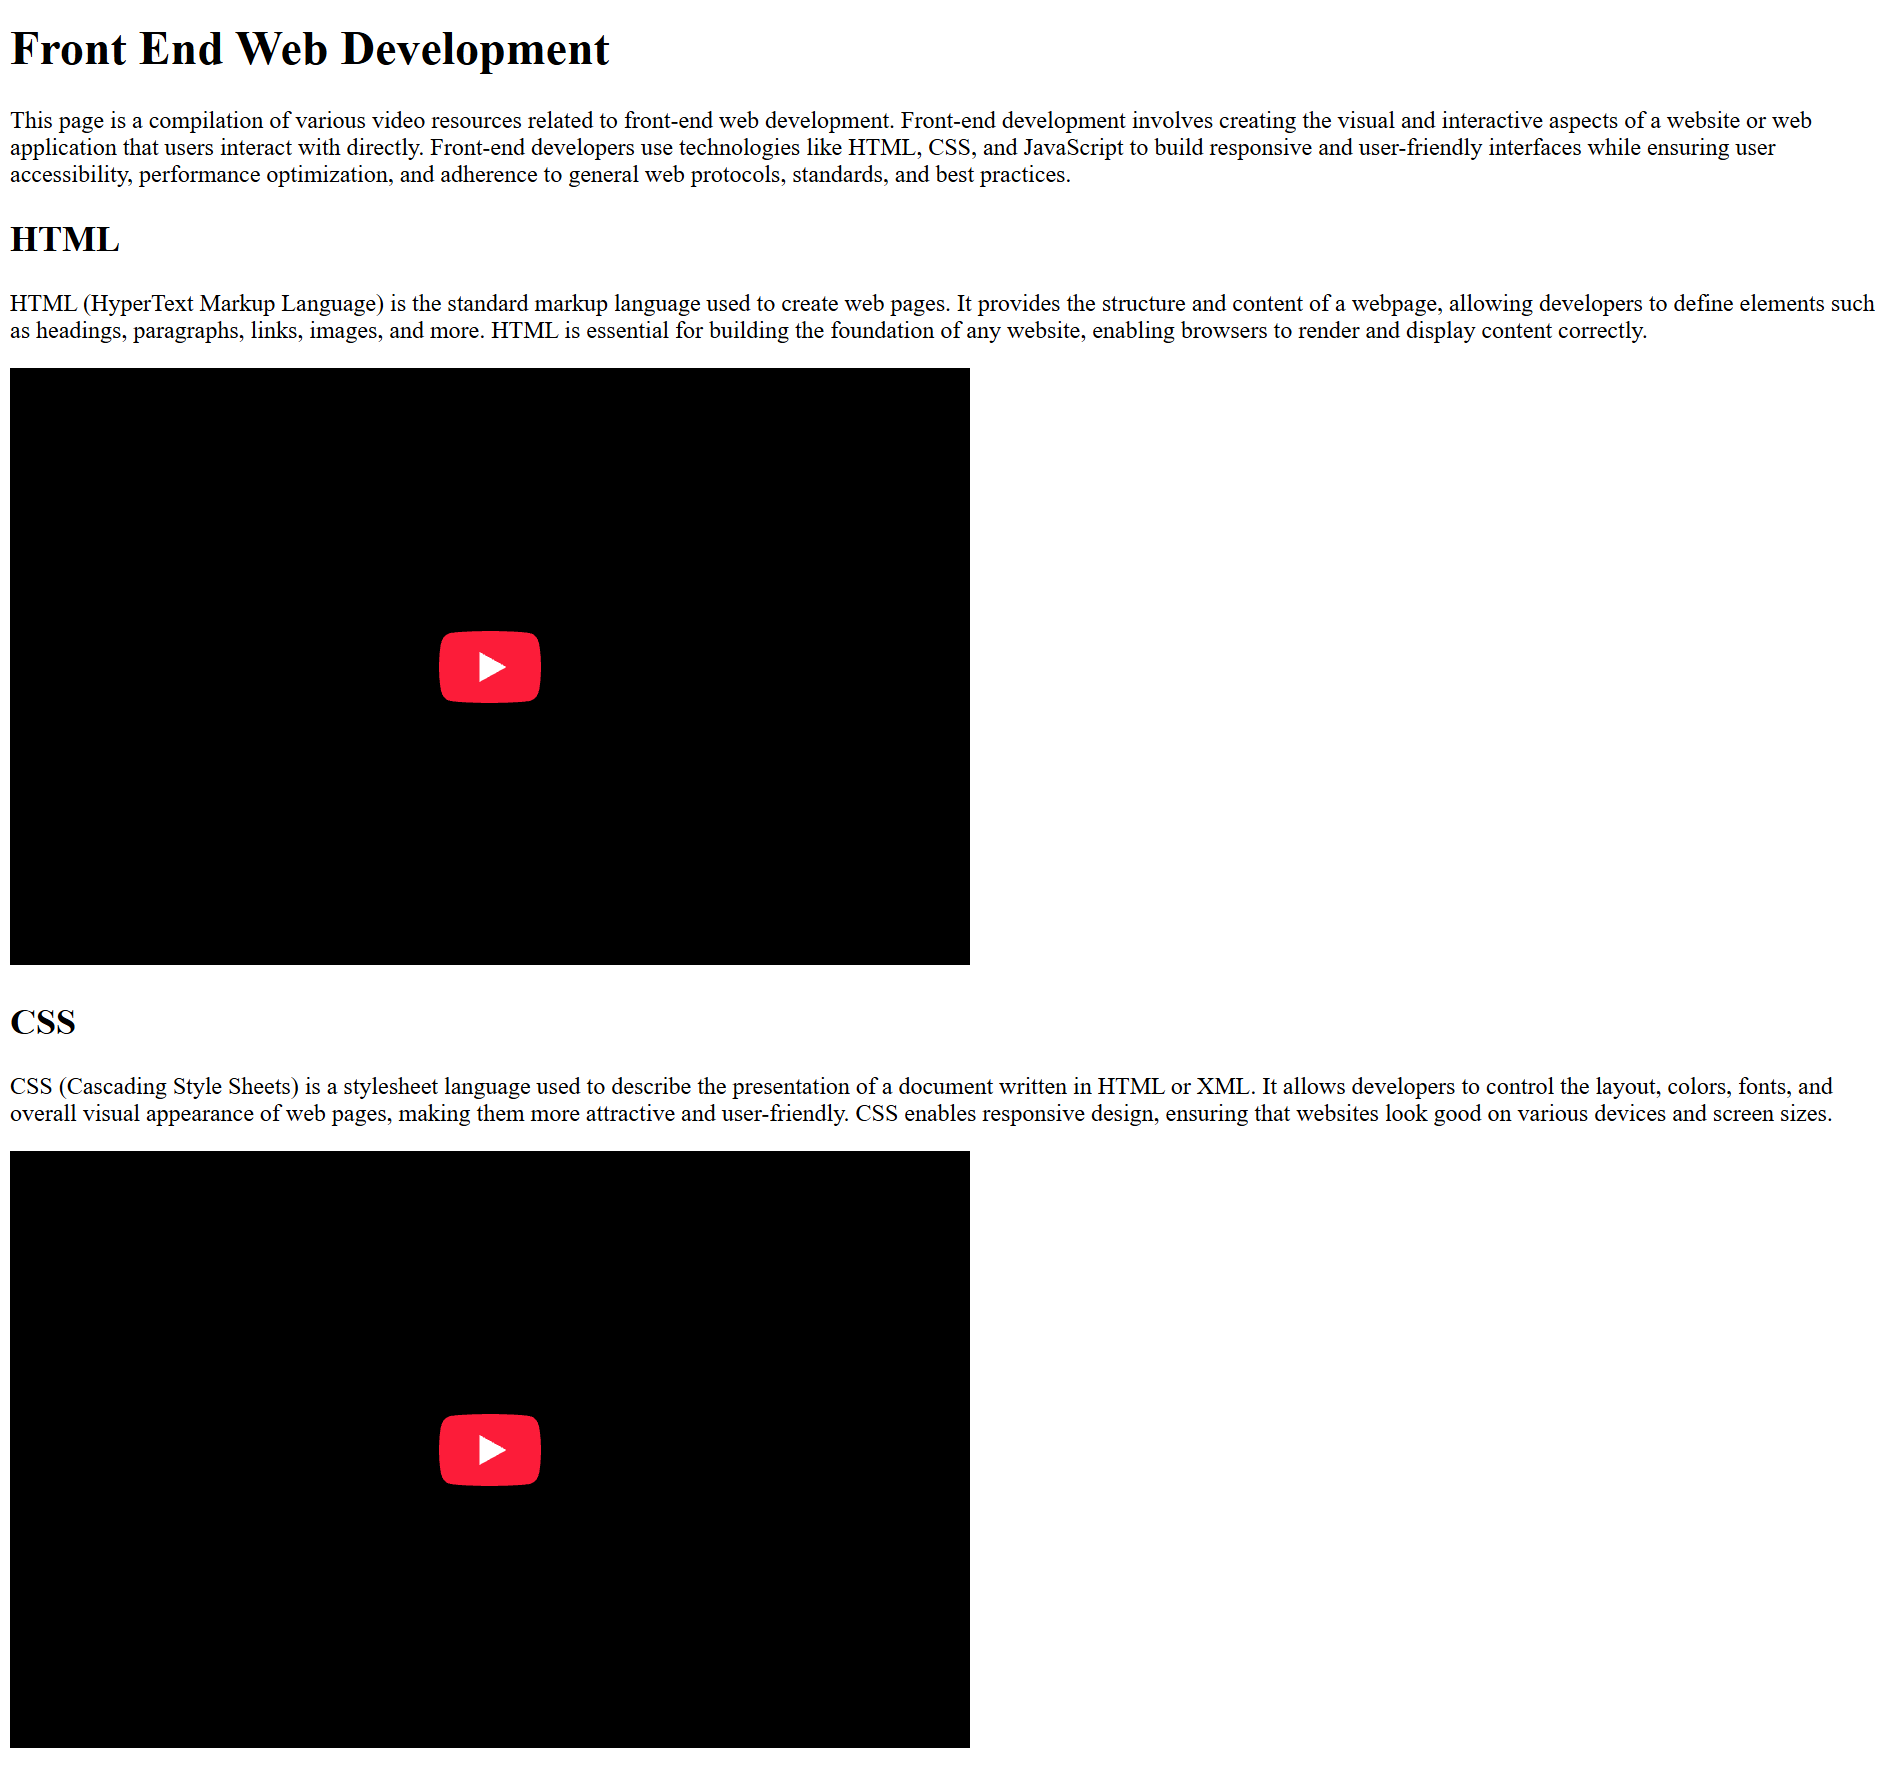
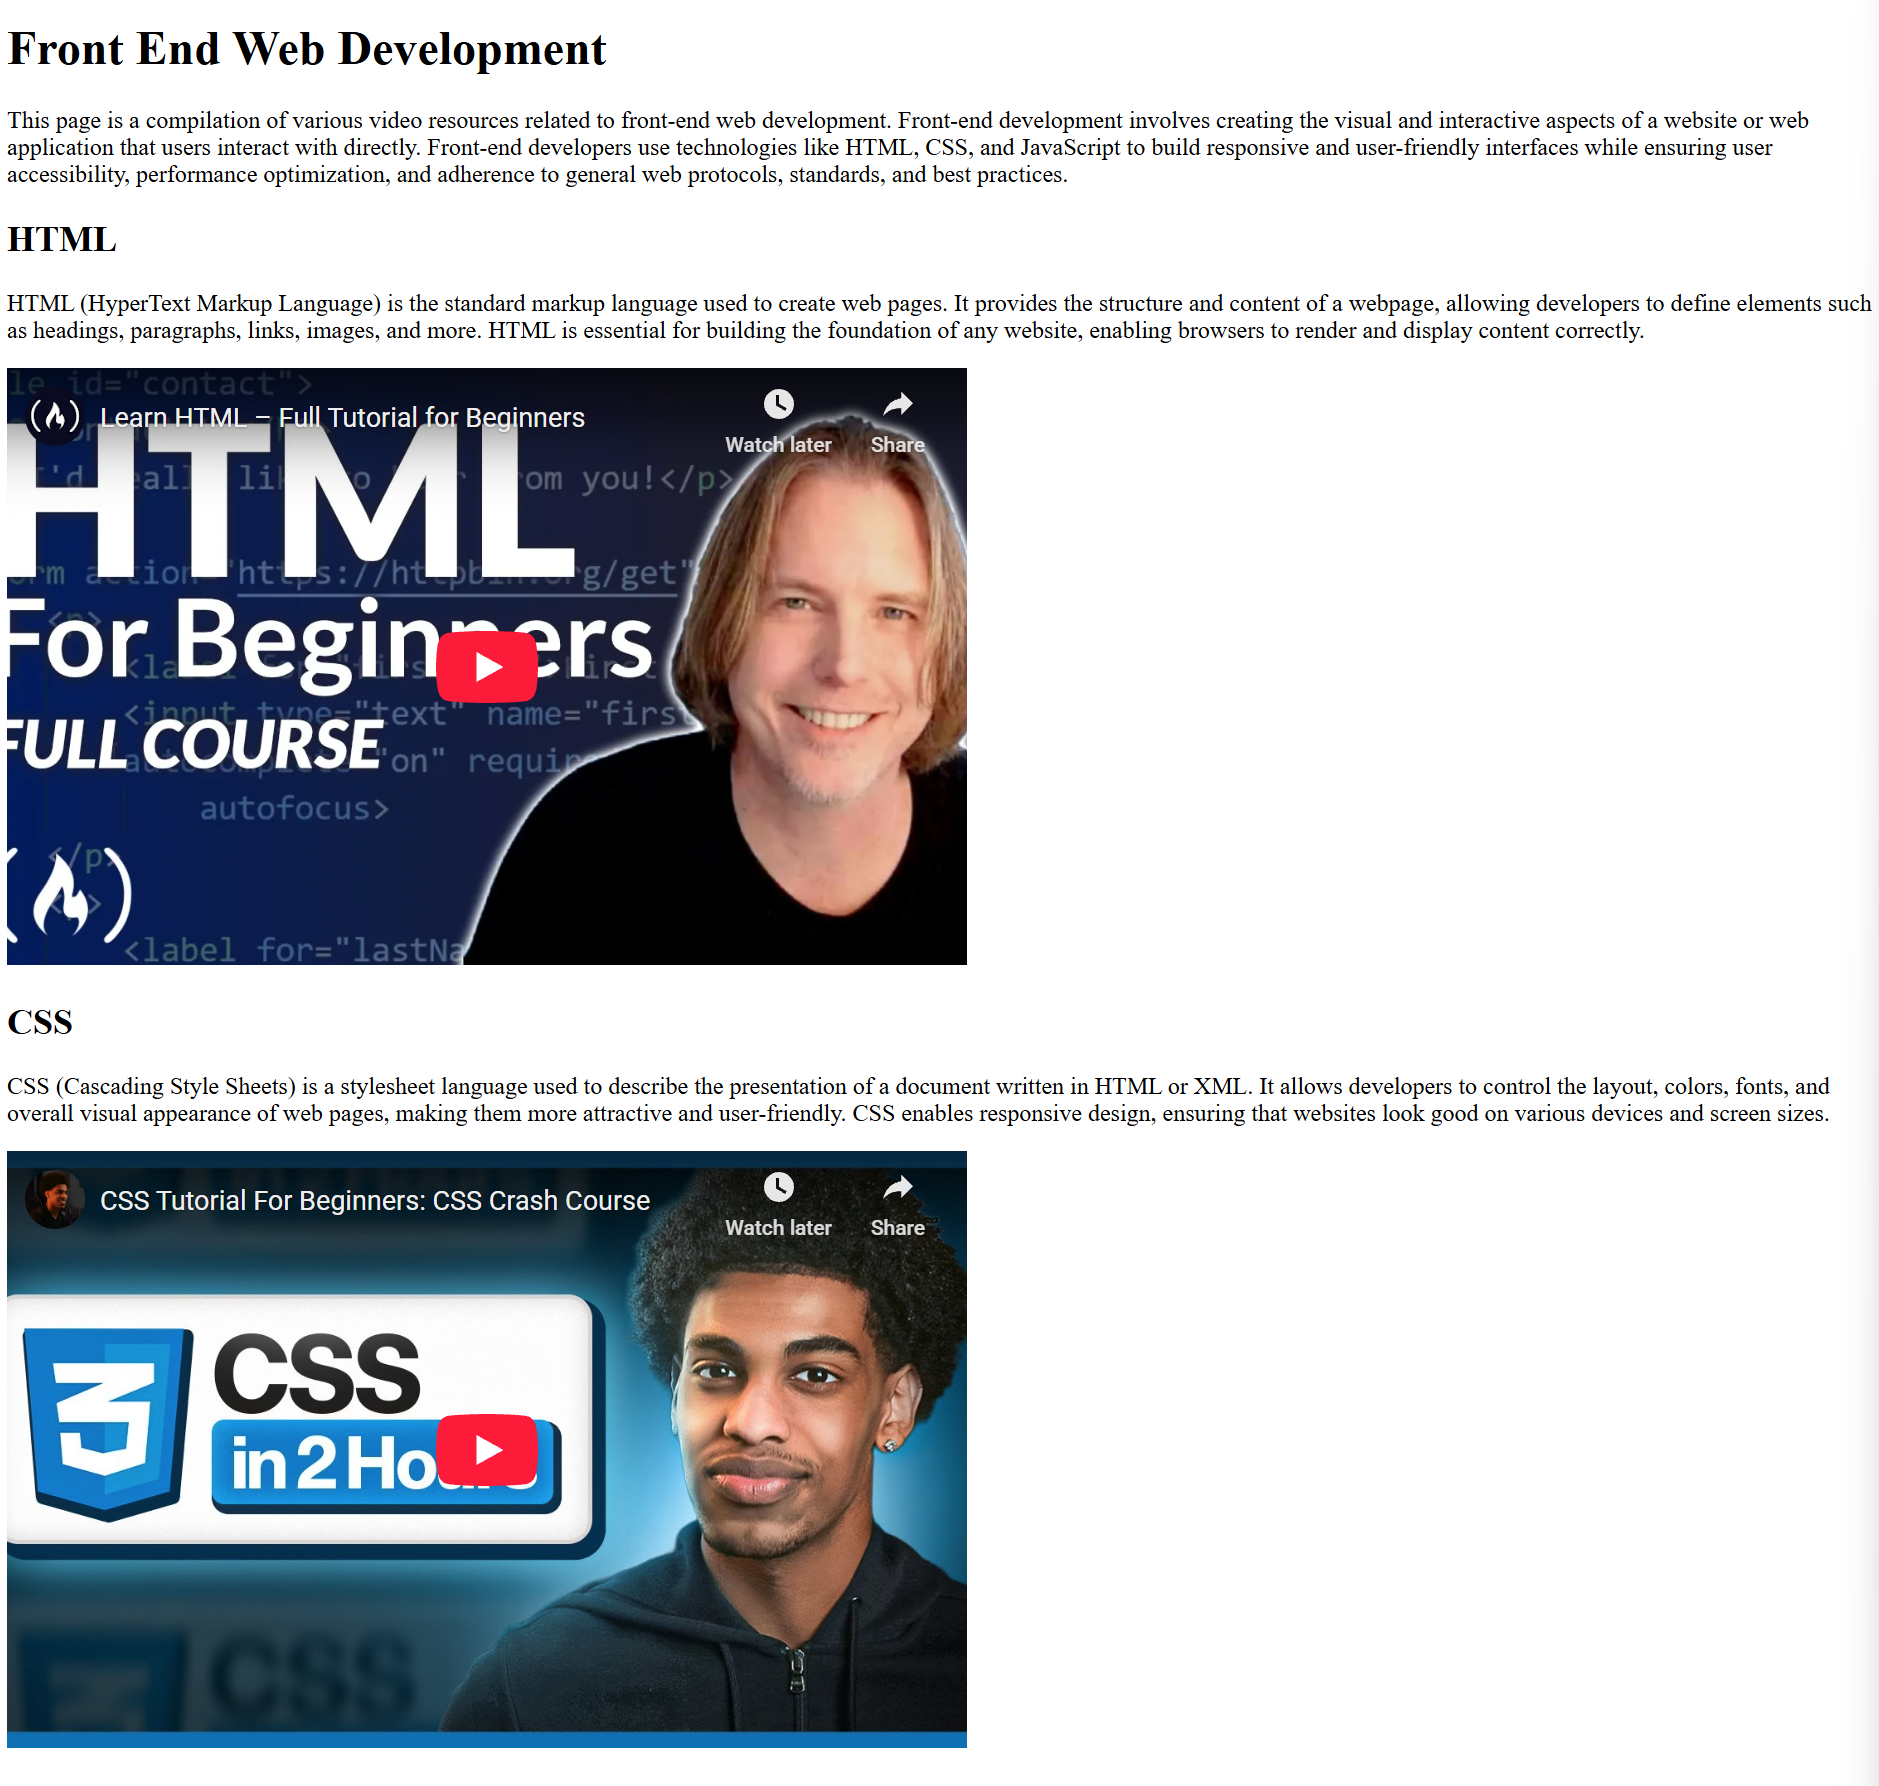
Fixed video links and made changes to screenshots

diff --git a/index.html b/index.html
@@ -20,7 +20,8 @@
       <p>
         HTML (HyperText Markup Language) is the standard markup language used to create web pages. It provides the structure and content of a webpage, allowing developers to define elements such as headings, paragraphs, links, images, and more. HTML is essential for building the foundation of any website, enabling browsers to render and display content correctly.
       </p>
-      <iframe src="https://www.youtube.com/embed/watch?v=kUMe1FH4CHE" title="HTML tutorial video" height="398" width="640" frameborder="0"></iframe>
+      <iframe src="https://www.youtube.com/embed/kUMe1FH4CHE" title="HTML tutorial video" height="398" width="640" allow="accelerometer autoplay clipboard-write encrypted-media gyroscope web-share" referrerpolicy="strict-origin-when-cross-origin"
+      frameborder="0" allowfullscreen></iframe>
     </section>
         <section>
       <h2>
@@ -29,7 +30,7 @@
       <p>
         CSS (Cascading Style Sheets) is a stylesheet language used to describe the presentation of a document written in HTML or XML. It allows developers to control the layout, colors, fonts, and overall visual appearance of web pages, making them more attractive and user-friendly. CSS enables responsive design, ensuring that websites look good on various devices and screen sizes.
       </p>
-      <iframe src="https://www.youtube.com/embed/watch?v=c26O1N3x6ug" title="CSS tutorial video" height="398" width="640" frameborder="0"></iframe>
+      <iframe src="https://www.youtube.com/embed/c26O1N3x6ug" title="CSS tutorial video" height="398" width="640" allow="accelerometer autoplay clipboard-write encrypted-media gyroscope web-share" referrerpolicy="strict-origin-when-cross-origin" frameborder="0" allowfullscreen></iframe>
     </section>
     <section>
       <h2>
@@ -38,7 +39,7 @@
       <p>
         JavaScript is a high-level, dynamic programming language that is widely used for adding interactivity and functionality to web pages. It allows developers to create dynamic content, control multimedia, animate images, and handle user interactions. JavaScript is an essential part of modern web development, enabling the creation of responsive and engaging user experiences.
       </p>
-      <iframe src="https://www.youtube.com/embed/watch?v=EerdGm-ehJQ" title="JavaScript tutorial video" height="398" width="640" frameborder="0"></iframe>
+      <iframe src="https://www.youtube.com/embed/PkZNo7MFNFg" title="JavaScript tutorial video" height="398" width="640" allow="accelerometer autoplay clipboard-write encrypted-media gyroscope web-share" referrerpolicy="strict-origin-when-cross-origin" frameborder="0" allowfullscreen></iframe>
     </section>
   </main>
 </body>
